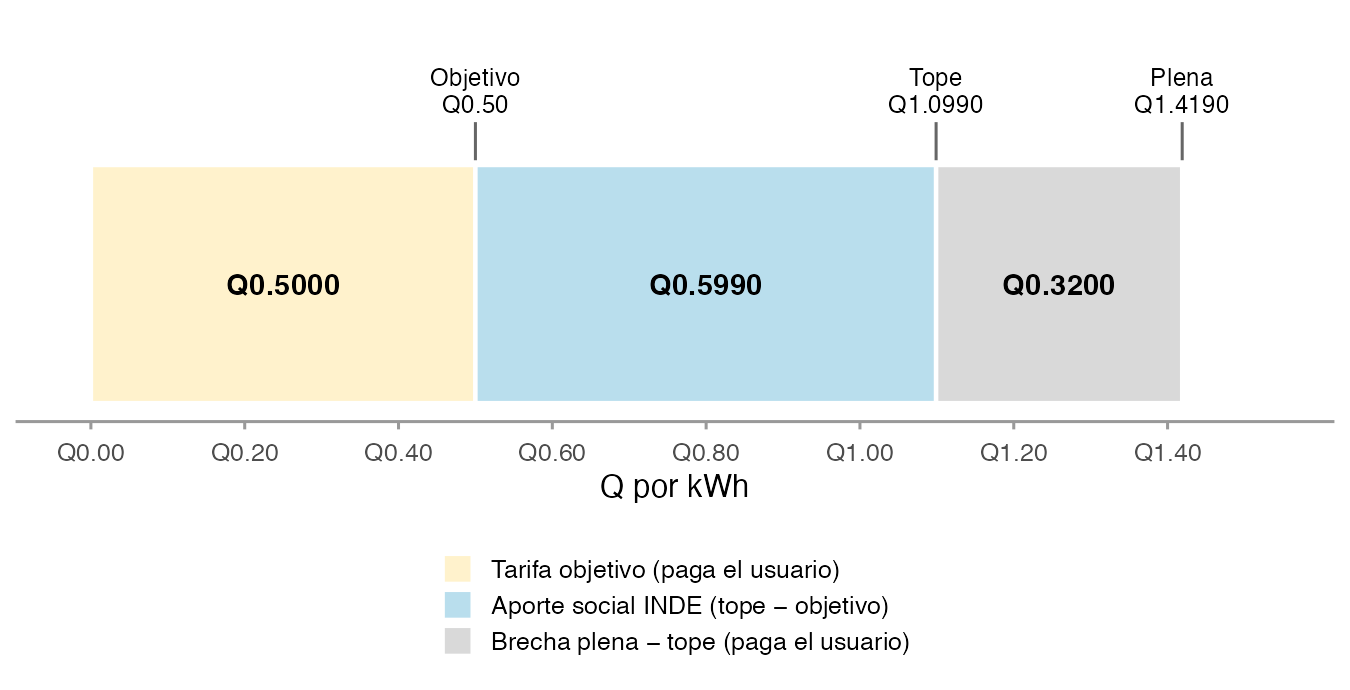
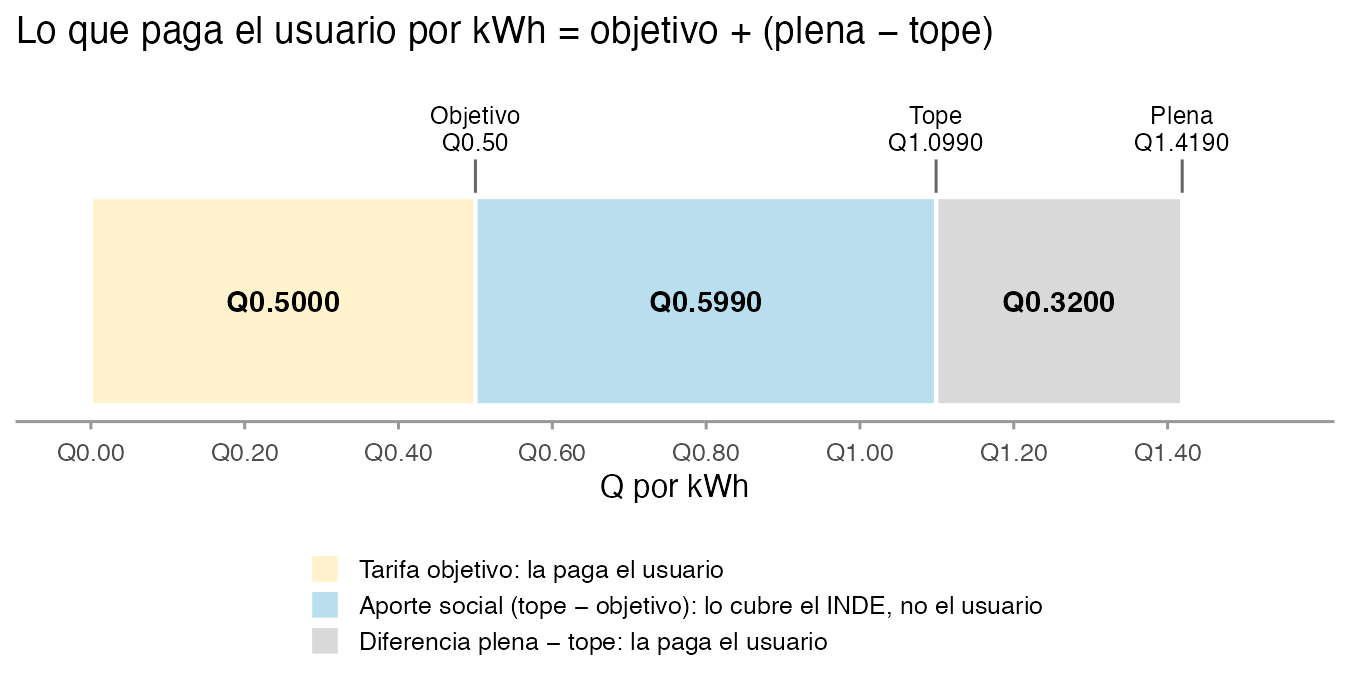
Observaciones 03: detalle del escenario, papel de la tarifa tope, cambio en el costo y etiquetas en barras
- Escenarios: botón de detalle por fila con los valores que difieren de la tarifa vigente y la compensación.
- Tarifa tope: textos y diagrama aclaran que el usuario paga objetivo + (plena - tope) y qué pasa si la tope baja.
- Costo fiscal: gráfico de cambio frente a la base (ahorro / costo adicional); aporte INDE como nota fija.
- Valores encima de las barras de pobreza, desigualdad y costo; Gini con 4 decimales; hogares sin decimales.
- Notas sobre pobreza general vs. extrema con compensación focalizada y sobre deciles de personas.

diff --git a/docs/instructivo.html b/docs/instructivo.html
@@ -212,13 +212,14 @@ pre > code.sourceCode > span > a:first-child::before { text-decoration: underlin
 <li>Para cambiar después un esquema guardado, elíjalo en «Cargar», modifique los valores y presione «Actualizar». La insignia muestra «cambios sin guardar» mientras haya cambios pendientes.</li>
 </ol>
 <p>El aporte social por kWh de cada tramo es la tarifa plena (o la tarifa tope, si es menor) menos la tarifa objetivo. Si la tarifa objetivo queda vacía, o es igual o mayor que la tarifa plena, el tramo no recibe aporte social y paga la tarifa plena. Una tarifa objetivo de 0 no es lo mismo que vacía: da al tramo el aporte social máximo.</p>
+<p>El aporte social lo cubre el INDE, no el usuario. Lo que paga el usuario por kWh es la tarifa objetivo más, si la tarifa plena supera la tope, la diferencia entre la plena y la tope: <strong>objetivo + (plena − tope)</strong>. La tarifa tope no se paga; se resta de la plena porque el tramo entre la objetivo y la tope lo cubre el INDE.</p>
 <section id="cómo-ajustar-el-subsidio" class="level3">
 <h3 class="anchored" data-anchor-id="cómo-ajustar-el-subsidio">Cómo ajustar el subsidio</h3>
 <ul>
 <li><strong>Quién recibe el subsidio:</strong> cambie los límites de consumo. Cada hogar queda en un solo tramo según su consumo mensual, y todos sus kWh se cobran con la tarifa de ese tramo. El límite indica dónde empieza el tramo; por ejemplo, para que el tramo 1 llegue hasta 120 kWh, escriba 120 en el límite del tramo 2.</li>
 <li><strong>Cuánto recibe cada tramo:</strong> baje la tarifa objetivo para dar más aporte social por kWh o súbala para dar menos.</li>
 <li><strong>Quitar el subsidio a un tramo:</strong> deje vacía la tarifa objetivo o iguálela a la tarifa plena.</li>
-<li><strong>Limitar el aporte:</strong> la tarifa tope fija el aporte máximo por kWh en todos los tramos de la distribuidora; si se baja, el aporte se reduce en los tramos donde la tarifa plena la supera.</li>
+<li><strong>Papel de la tarifa tope:</strong> es el límite hasta el que el INDE cubre el precio por encima de la tarifa objetivo. Cuando la tarifa plena supera la tope, el aporte social es tope − objetivo y el hogar paga la tarifa objetivo más la diferencia entre la plena y la tope. Si se baja la tope (con la objetivo igual), el aporte social cae y el hogar paga más; si se sube (como máximo hasta la plena), el aporte crece y el hogar paga menos. Si la tarifa plena es menor que la tope, la tope no cambia nada.</li>
 <li><strong>Por distribuidora:</strong> las tarifas se fijan por separado en cada pestaña (EEGSA, DEOCSA, DEORSA); los límites de consumo son comunes. El cargo fijo es solo de referencia y no cambia los resultados.</li>
 <li><strong>Con qué se compara:</strong> los resultados se comparan con la tarifa vigente, que incluye el subsidio actual. Si un esquema da menos aporte que el vigente, el cambio en el ingreso de los hogares sale negativo.</li>
 </ul>
@@ -238,7 +239,7 @@ pre > code.sourceCode > span > a:first-child::before { text-decoration: underlin
 <li>Abra la pestaña «3 · Escenarios».</li>
 <li>Escriba el nombre del escenario y elija el esquema y la compensación guardados.</li>
 <li>Presione «Agregar escenario a la lista». Se marca para comparar automáticamente mientras haya menos de cuatro marcados.</li>
-<li>En «Escenarios guardados», la casilla «Comparar» de cada fila elige los escenarios que se simulan (hasta cuatro) y la papelera elimina el escenario.</li>
+<li>En «Escenarios guardados», la casilla «Comparar» de cada fila elige los escenarios que se simulan (hasta cuatro) y la papelera elimina el escenario. El botón del ojo muestra en qué consiste el escenario: los valores del esquema que difieren de la tarifa vigente (límites, tarifas y aporte social por tramo) y la compensación.</li>
 </ol>
 </section>
 <section id="simular-y-leer-los-resultados" class="level2">
@@ -248,6 +249,13 @@ pre > code.sourceCode > span > a:first-child::before { text-decoration: underlin
 <li>Consulte la «Leyenda de los escenarios» para ubicar cada «Escenario N».</li>
 <li>Revise «Resumen» y luego las vistas de pobreza, desigualdad, costo fiscal e incidencia. Compare «Base», «Cambio en subsidio» y «Con compensación». Esta última solo aparece si el escenario incluye una compensación.</li>
 </ol>
+<p>Algunas pautas para leer los resultados:</p>
+<ul>
+<li><strong>Costo fiscal:</strong> el gráfico «Cambio en el costo vs.&nbsp;base» muestra el ahorro (barras negativas, en verde) o el costo adicional frente a la situación vigente. El aporte a la tarifa social registrado por INDE es un dato administrativo fijo de la situación vigente y aparece como nota bajo el cuadro.</li>
+<li><strong>Pobreza general y extrema:</strong> una compensación que llega solo a los deciles más bajos puede reducir mucho la pobreza extrema y casi nada la pobreza general, porque esos hogares están muy por debajo de la línea de pobreza general y el monto no les alcanza para cruzarla.</li>
+<li><strong>Incidencia por deciles:</strong> cada decil agrupa el 10 % de las personas, no de los hogares. Con un monto fijo por hogar, el total en millones de Q crece de un decil al siguiente porque los deciles de mayor ingreso tienen hogares más pequeños y, por lo tanto, más hogares.</li>
+<li><strong>Gini:</strong> se muestra con cuatro decimales, porque los cambios del subsidio eléctrico en la desigualdad suelen ser pequeños.</li>
+</ul>
 </section>
 <section id="guardar-el-trabajo" class="level2">
 <h2 class="anchored" data-anchor-id="guardar-el-trabajo">6. Guardar el trabajo</h2>

diff --git a/docs/index.html b/docs/index.html
@@ -220,14 +220,14 @@ pre > code.sourceCode > span > a:first-child::before { text-decoration: underlin
 <h2 class="anchored" data-anchor-id="flujo-de-uso">Flujo de uso</h2>
 <p>La app abre en la pestaña «Instructivo», que resume el uso y cómo se arma un escenario. Después siguen cuatro pestañas que se recorren en orden.</p>
 <p><strong>1. Esquemas tarifarios.</strong> Se define cómo se subsidia el consumo: los tramos de consumo (límite en kWh por mes, común a las tres distribuidoras) y, para cada distribuidora, la tarifa plena, la tarifa objetivo y el cargo fijo de cada tramo, junto con la tarifa tope. Con «Cargar» se trae la tarifa vigente o un esquema guardado y se modifican los valores. «Actualizar» guarda los cambios en el esquema cargado y «Guardar como nuevo» crea otro con el nombre que se escriba. Las compensaciones funcionan igual. Una sesión nueva empieza sin esquemas ni compensaciones guardados.</p>
-<p>El aporte social por kWh de cada tramo es la tarifa plena (o la tarifa tope, si es menor) menos la tarifa objetivo. Si la tarifa objetivo queda vacía, o es igual o mayor que la tarifa plena, el tramo no recibe aporte social. Una tarifa objetivo de 0 no es lo mismo que vacía: da al tramo el aporte social máximo.</p>
+<p>El aporte social por kWh de cada tramo es la tarifa plena (o la tarifa tope, si es menor) menos la tarifa objetivo. Si la tarifa objetivo queda vacía, o es igual o mayor que la tarifa plena, el tramo no recibe aporte social. Una tarifa objetivo de 0 no es lo mismo que vacía: da al tramo el aporte social máximo. El aporte social lo cubre el INDE; el usuario paga por kWh la tarifa objetivo más la diferencia entre la plena y la tope (cuando la plena la supera). Si la tope baja, el aporte social cae y el usuario paga más.</p>
 <p><strong>2. Compensaciones.</strong> Se define a quién se compensa y con qué monto mensual por hogar. Hay tres grupos de beneficiarios, además de la opción «Sin compensación»:</p>
 <ul>
 <li>hogares hasta cierto decil de ingreso, con monto fijo;</li>
 <li>beneficiarios del bono social, con monto fijo o como porcentaje de la mediana anual del bono;</li>
 <li>hogares con bajo consumo de electricidad (menos de cierto número de kWh por mes), con monto fijo.</li>
 </ul>
-<p><strong>3. Escenarios.</strong> Un escenario combina un esquema tarifario y una compensación de las guardadas. La opción «Tarifa vigente (situación actual)» o «Sin compensación» deja esa parte sin cambio; un escenario debe modificar al menos una de las dos. Se pueden crear los escenarios que se quiera y marcar «Comparar» en hasta <strong>4</strong>. La situación base se incluye siempre. La papelera de cada fila elimina ese escenario.</p>
+<p><strong>3. Escenarios.</strong> Un escenario combina un esquema tarifario y una compensación de las guardadas. La opción «Tarifa vigente (situación actual)» o «Sin compensación» deja esa parte sin cambio; un escenario debe modificar al menos una de las dos. Se pueden crear los escenarios que se quiera y marcar «Comparar» en hasta <strong>4</strong>. La situación base se incluye siempre. El botón del ojo de cada fila muestra en qué consiste el escenario (los valores que cambian frente a la tarifa vigente y la compensación) y la papelera lo elimina.</p>
 <p><strong>4. Simular.</strong> El botón «Simular» corre los escenarios marcados. Los resultados se organizan en seis vistas:</p>
 <table class="caption-top table">
 <colgroup>
@@ -255,7 +255,7 @@ pre > code.sourceCode > span > a:first-child::before { text-decoration: underlin
 </tr>
 <tr class="even">
 <td>Costo fiscal</td>
-<td>Costo anual en millones de Q (quetzales de 2023, población de la ENCOVI 2023) y como porcentaje del PIB</td>
+<td>Costo anual en millones de Q (quetzales de 2023, población de la ENCOVI 2023), cambio frente a la base (ahorro o costo adicional) y costo como porcentaje del PIB</td>
 </tr>
 <tr class="odd">
 <td>Incidencia</td>

diff --git a/AGENTS.md b/AGENTS.md
@@ -131,11 +131,11 @@ La forma principal de uso es **correr la app localmente** (por el costo de los c
 
 ## Estructura de la app (UI)
 
-- `app.R` carga `R/*.R` y los `mod_*.R` de la raíz. Pestañas: Instructivo (`R/instructivo.R`; diagramas en `www/img/`, generados con `data-raw/build_instructivo_img.R`), Esquemas tarifarios, Compensaciones, Escenarios (composer con casilla «Comparar» y papelera por fila + guardar/compartir) y Simular (resultados).
+- `app.R` carga `R/*.R` y los `mod_*.R` de la raíz. Pestañas: Instructivo (`R/instructivo.R`; diagramas en `www/img/`, generados con `data-raw/build_instructivo_img.R`), Esquemas tarifarios, Compensaciones, Escenarios (composer con casilla «Comparar», ojo de detalle —`cambios_esquema()` frente a la tarifa vigente y `describir_comp()`, en `R/adapter_compose.R`— y papelera por fila + guardar/compartir) y Simular (resultados).
 - `R/adapter_compose.R`: `compose_scenario_inputs()`, `biblioteca_inicial()` (vacía: una sesión nueva no trae componentes), `biblioteca_ejemplo()` (solo pruebas), `validar_esquema()`, `normalizar_comp()` y los nombres de columna de `sim_sub`/`sim_extra` (`SUB_CAMPOS`, `COMP_CAMPOS`). Cada escenario se corre aislado con ids propios (esquema 1, compensación 1).
 - `R/adapter_results.R`: `combinar_resultados()` convierte `GTM_resumen` en data frames largos con claves; es el único código que conoce posiciones de filas/columnas del resumen. `ejecutar_escenarios()` corre cada escenario con `run_scenario()` y cachea por hash de las tablas.
 - `R/base_scenario.R`: `leer_base_scenario()`, `insumos_base()` y `base_vigente()` (ver «Base reconstruible»).
-- `R/results_views.R`: tablas DT y gráficos **plotly** (puros, solo consumen el objeto de resultados). Ejes y leyendas con etiquetas cortas («Base», «Escenario N», tabla `res$equivalencias` creada por `combinar_resultados()`); nombre completo, esquema, compensación y valor exacto en el hover (`text` + `hovertemplate`). La barra de plotly se configura en `config_plotly()` (solo descarga PNG). `R/map_views.R`: `mapa_region()`, coroplético regional. `R/scenario_store.R`: Excel (hojas `esquemas`, `compensaciones`, `escenarios`) y autosave en `app_state/`.
+- `R/results_views.R`: tablas DT y gráficos **plotly** (puros, solo consumen el objeto de resultados). Ejes y leyendas con etiquetas cortas («Base», «Escenario N», tabla `res$equivalencias` creada por `combinar_resultados()`); nombre completo, esquema, compensación y valor exacto en el hover (`hovertext`). Pobreza, desigualdad (Gini con 4 decimales) y costo llevan el valor encima de la barra (`barras_plotly(digitos = )`). El aporte registrado por INDE es dato fijo de la base: va como nota (`nota_aporte_inde()`), no en el cuadro fiscal. La barra de plotly se configura en `config_plotly()` (solo descarga PNG). `R/map_views.R`: `mapa_region()`, coroplético regional. `R/scenario_store.R`: Excel (hojas `esquemas`, `compensaciones`, `escenarios`) y autosave en `app_state/`.
 - La corrida es síncrona; el paso a `ExtendedTask` + `mirai` queda para después (`mod_simulacion.R`).
 
 ## Base reconstruible (escenario 0)
